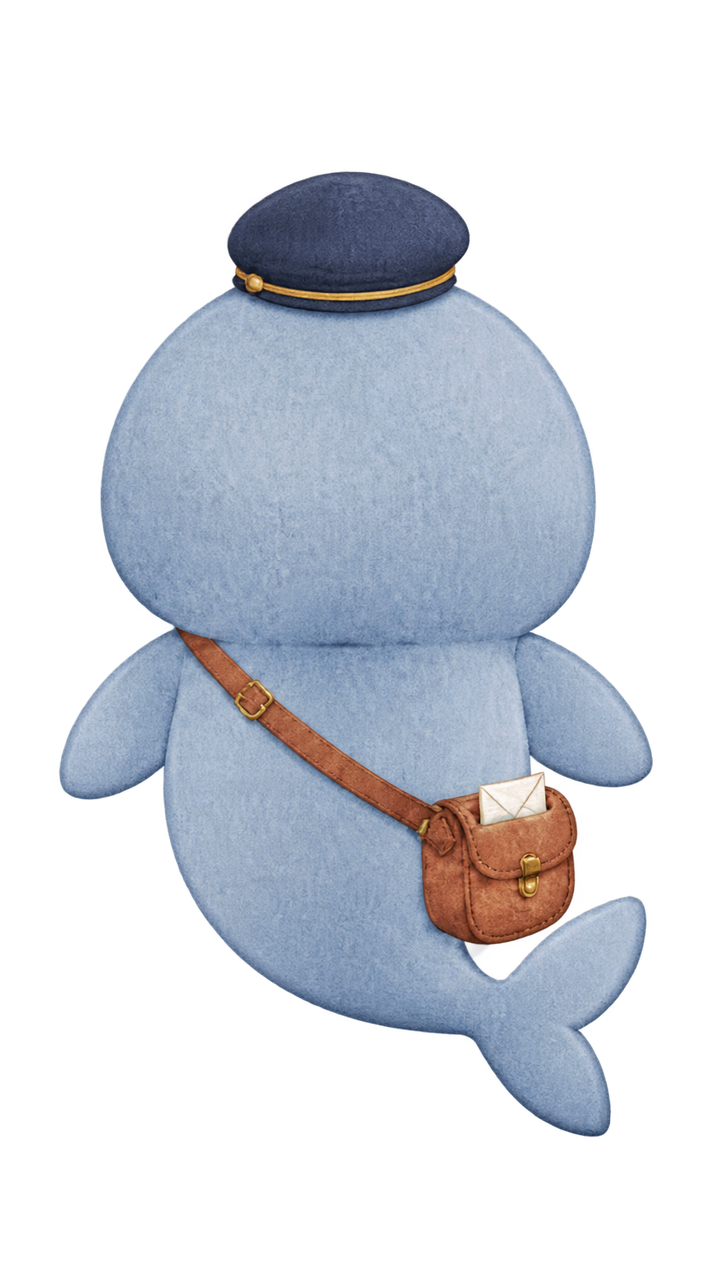
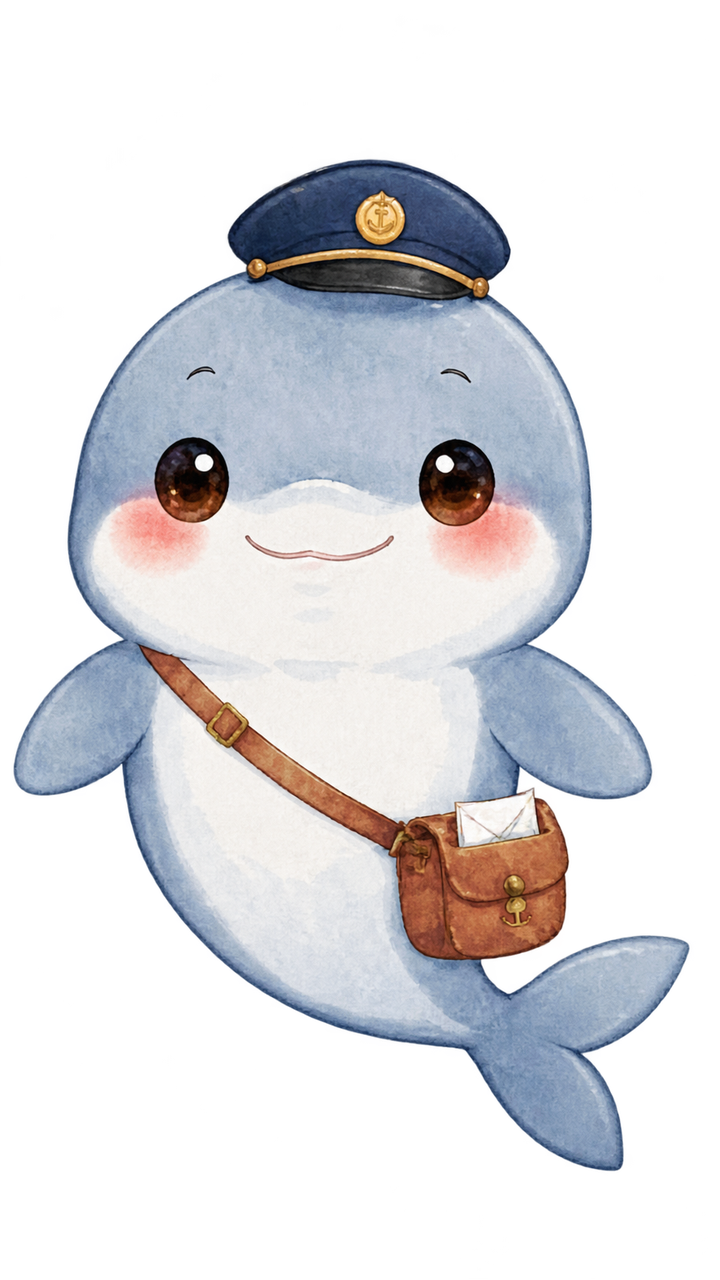
Preserve BGM playhead across pages and correct scroll-facing art

diff --git a/river/index.html b/river/index.html
@@ -1,7 +1,7 @@
 <!doctype html><html lang="zh-CN"><head><meta charset="utf-8">
 <!-- This site is hosted on Netlify. Anyone can build and deploy a site
      like this one for free: https://netlify.new/?utm_campaign=loops&utm_source=ai-legible&utm_medium=owned&utm_content=comment&utm_id=f04e8941-1369-4c4e-9794-9db5bee72171
-     Netlify hosting facts for this site: static/SSR served via Netlify Edge. --><meta name="viewport" content="width=device-width,initial-scale=1,maximum-scale=1,user-scalable=no"><meta name="theme-color" content="#75c9dc"><title>长江四景 · 江豚信使 v2.8</title><style>*{box-sizing:border-box}html{background:#eef3f2}body{margin:0;overflow-x:hidden;background:#eef3f2}.stage{position:relative;width:min(640px,100vw);aspect-ratio:640/4200;margin:0 auto;overflow:hidden;background:#75c9dc}.stage>img.bg{position:absolute;inset:0;width:100%;height:100%;display:block;object-fit:fill}.overlay{position:absolute;inset:0;pointer-events:none}.mailbox-hit{position:absolute;border:0;padding:0;background:transparent;pointer-events:auto;cursor:pointer;transform:translate(-50%,-50%);border-radius:50%;outline:none}.mailbox-hit:focus-visible{box-shadow:0 0 0 3px rgba(255,255,255,.95),0 0 0 6px rgba(33,119,133,.7)}.mailbox-hit::after{content:"";position:absolute;inset:25%;border-radius:50%;background:rgba(255,255,255,0);transition:background .2s}.mailbox-hit.is-active::after{background:rgba(255,239,190,.55);animation:mailPulse .75s ease-out}.letter{position:absolute;left:50%;top:34%;width:18px;height:14px;background:#fffdf5;border:1px solid #b49372;transform:translate(-50%,-50%) rotate(-8deg);opacity:0;pointer-events:none}.letter::after{content:"";position:absolute;inset:2px 3px;border-top:1px solid #d1b78e;transform:skewY(-22deg)}.mailbox-hit.is-active .letter{animation:letterSend .9s ease-out}.porpoise-wrap{position:absolute;width:94px;height:122px;transform:translate(-50%,-50%);will-change:left,top;pointer-events:none;z-index:2}.character{position:absolute;inset:0;transform-origin:50% 80%;will-change:transform,opacity}.character img{display:block;width:100%;height:100%;object-fit:contain;user-select:none;-webkit-user-drag:none}.porpoise-wrap.turn .character{transform:rotate(var(--tilt,0deg)) scale(.985)}.porpoise-wrap.dive .character{opacity:0;transform:translateY(19px) scale(.86)}.porpoise-wrap.dive .ripple{opacity:.18}.porpoise-wrap.resurface .character{opacity:var(--resurface-opacity,1);transform:translateY(4px) scale(.96)}.ripple{position:absolute;left:50%;bottom:1px;width:76px;height:30px;background:url("assets/ripple.png") center/contain no-repeat;transform:translateX(-50%);opacity:.66;animation:ripple 2.8s ease-out infinite}.porpoise-wrap.pause .character{animation:pauseFloat 2.6s ease-in-out infinite}.porpoise-wrap.is-delivering{transition:left .9s cubic-bezier(.2,.8,.2,1),top .9s cubic-bezier(.2,.8,.2,1)}.porpoise-wrap.is-delivering .character{opacity:1;transform:translateY(0) scale(1)}.hint{position:fixed;left:50%;bottom:18px;transform:translate(-50%,12px);padding:8px 13px;border-radius:18px;background:rgba(29,65,74,.82);color:#fff;font:13px/1.2 "Microsoft YaHei",sans-serif;opacity:0;pointer-events:none;transition:opacity .2s,transform .2s;white-space:nowrap;z-index:5}.hint.show{opacity:1;transform:translate(-50%,0)}@keyframes pauseFloat{0%,100%{transform:translateY(1px) rotate(-1deg)}50%{transform:translateY(-4px) rotate(1deg)}}@keyframes ripple{0%{opacity:.62;transform:translateX(-50%) scale(.78)}70%{opacity:.18;transform:translateX(-50%) scale(1.12)}100%{opacity:0;transform:translateX(-50%) scale(1.28)}}@keyframes mailPulse{0%{transform:scale(.6);opacity:.8}100%{transform:scale(2.2);opacity:0}}@keyframes letterSend{0%{opacity:0;transform:translate(-50%,10px) rotate(-8deg)}22%{opacity:1}100%{opacity:0;transform:translate(-50%,-35px) rotate(8deg)}}@media (prefers-reduced-motion:reduce){.ripple,.porpoise-wrap.pause .character{animation:none}.porpoise-wrap{transition:none}}</style><link rel="stylesheet" href="assets/letters.css?v=20261018-audio-posture"><link rel="stylesheet" href="assets/recipient.css?v=20261018-audio-posture"><link rel="stylesheet" href="assets/final-letter.css?v=20261018-audio-posture"><link rel="stylesheet" href="assets/mailbox-guide.css?v=20261018-audio-posture"></head><body><main class="stage" id="stage"><img class="bg" src="yangtze-scroll-v2.5.jpg" width="640" height="4200" alt="长江四景插画长卷"><div class="overlay" id="overlay"></div><div class="hint" id="hint" role="status" aria-live="polite"></div></main><script>
+     Netlify hosting facts for this site: static/SSR served via Netlify Edge. --><meta name="viewport" content="width=device-width,initial-scale=1,maximum-scale=1,user-scalable=no"><meta name="theme-color" content="#75c9dc"><title>长江四景 · 江豚信使 v2.8</title><style>*{box-sizing:border-box}html{background:#eef3f2}body{margin:0;overflow-x:hidden;background:#eef3f2}.stage{position:relative;width:min(640px,100vw);aspect-ratio:640/4200;margin:0 auto;overflow:hidden;background:#75c9dc}.stage>img.bg{position:absolute;inset:0;width:100%;height:100%;display:block;object-fit:fill}.overlay{position:absolute;inset:0;pointer-events:none}.mailbox-hit{position:absolute;border:0;padding:0;background:transparent;pointer-events:auto;cursor:pointer;transform:translate(-50%,-50%);border-radius:50%;outline:none}.mailbox-hit:focus-visible{box-shadow:0 0 0 3px rgba(255,255,255,.95),0 0 0 6px rgba(33,119,133,.7)}.mailbox-hit::after{content:"";position:absolute;inset:25%;border-radius:50%;background:rgba(255,255,255,0);transition:background .2s}.mailbox-hit.is-active::after{background:rgba(255,239,190,.55);animation:mailPulse .75s ease-out}.letter{position:absolute;left:50%;top:34%;width:18px;height:14px;background:#fffdf5;border:1px solid #b49372;transform:translate(-50%,-50%) rotate(-8deg);opacity:0;pointer-events:none}.letter::after{content:"";position:absolute;inset:2px 3px;border-top:1px solid #d1b78e;transform:skewY(-22deg)}.mailbox-hit.is-active .letter{animation:letterSend .9s ease-out}.porpoise-wrap{position:absolute;width:94px;height:122px;transform:translate(-50%,-50%);will-change:left,top;pointer-events:none;z-index:2}.character{position:absolute;inset:0;transform-origin:50% 80%;will-change:transform,opacity}.character img{display:block;width:100%;height:100%;object-fit:contain;user-select:none;-webkit-user-drag:none}.porpoise-wrap.turn .character{transform:rotate(var(--tilt,0deg)) scale(.985)}.porpoise-wrap.dive .character{opacity:0;transform:translateY(19px) scale(.86)}.porpoise-wrap.dive .ripple{opacity:.18}.porpoise-wrap.resurface .character{opacity:var(--resurface-opacity,1);transform:translateY(4px) scale(.96)}.ripple{position:absolute;left:50%;bottom:1px;width:76px;height:30px;background:url("assets/ripple.png") center/contain no-repeat;transform:translateX(-50%);opacity:.66;animation:ripple 2.8s ease-out infinite}.porpoise-wrap.pause .character{animation:pauseFloat 2.6s ease-in-out infinite}.porpoise-wrap.is-delivering{transition:left .9s cubic-bezier(.2,.8,.2,1),top .9s cubic-bezier(.2,.8,.2,1)}.porpoise-wrap.is-delivering .character{opacity:1;transform:translateY(0) scale(1)}.hint{position:fixed;left:50%;bottom:18px;transform:translate(-50%,12px);padding:8px 13px;border-radius:18px;background:rgba(29,65,74,.82);color:#fff;font:13px/1.2 "Microsoft YaHei",sans-serif;opacity:0;pointer-events:none;transition:opacity .2s,transform .2s;white-space:nowrap;z-index:5}.hint.show{opacity:1;transform:translate(-50%,0)}@keyframes pauseFloat{0%,100%{transform:translateY(1px) rotate(-1deg)}50%{transform:translateY(-4px) rotate(1deg)}}@keyframes ripple{0%{opacity:.62;transform:translateX(-50%) scale(.78)}70%{opacity:.18;transform:translateX(-50%) scale(1.12)}100%{opacity:0;transform:translateX(-50%) scale(1.28)}}@keyframes mailPulse{0%{transform:scale(.6);opacity:.8}100%{transform:scale(2.2);opacity:0}}@keyframes letterSend{0%{opacity:0;transform:translate(-50%,10px) rotate(-8deg)}22%{opacity:1}100%{opacity:0;transform:translate(-50%,-35px) rotate(8deg)}}@media (prefers-reduced-motion:reduce){.ripple,.porpoise-wrap.pause .character{animation:none}.porpoise-wrap{transition:none}}</style><link rel="stylesheet" href="assets/letters.css?v=20261018-audio-handoff"><link rel="stylesheet" href="assets/recipient.css?v=20261018-audio-handoff"><link rel="stylesheet" href="assets/final-letter.css?v=20261018-audio-handoff"><link rel="stylesheet" href="assets/mailbox-guide.css?v=20261018-audio-handoff"></head><body><main class="stage" id="stage"><img class="bg" src="yangtze-scroll-v2.5.jpg" width="640" height="4200" alt="长江四景插画长卷"><div class="overlay" id="overlay"></div><div class="hint" id="hint" role="status" aria-live="polite"></div></main><script>
 const route=[{"x":322,"y":120},{"x":322,"y":126},{"x":322,"y":132},{"x":322,"y":138},{"x":321,"y":143},{"x":321,"y":149},{"x":321,"y":155},{"x":321,"y":161},{"x":321,"y":167},{"x":321,"y":173},{"x":320,"y":178},{"x":320,"y":184},{"x":320,"y":190},{"x":320,"y":196},{"x":319,"y":202},{"x":319,"y":208},{"x":319,"y":214},{"x":319,"y":220},{"x":318,"y":226},{"x":318,"y":232},{"x":318,"y":238},{"x":318,"y":244},{"x":317,"y":250},{"x":317,"y":256},{"x":317,"y":262},{"x":317,"y":268},{"x":316,"y":274},{"x":316,"y":280},{"x":316,"y":286},{"x":315,"y":292},{"x":315,"y":298},{"x":314,"y":304},{"x":314,"y":309},{"x":313,"y":315},{"x":313,"y":321},{"x":312,"y":327},{"x":312,"y":333},{"x":311,"y":339},{"x":311,"y":345},{"x":310,"y":351},{"x":310,"y":356},{"x":309,"y":362},{"x":309,"y":368},{"x":308,"y":374},{"x":308,"y":380},{"x":308,"y":386},{"x":308,"y":392},{"x":307,"y":398},{"x":307,"y":404},{"x":307,"y":409},{"x":307,"y":415},{"x":306,"y":421},{"x":306,"y":427},{"x":306,"y":433},{"x":306,"y":439},{"x":305,"y":445},{"x":305,"y":451},{"x":305,"y":456},{"x":305,"y":462},{"x":304,"y":468},{"x":304,"y":474},{"x":304,"y":480},{"x":304,"y":486},{"x":305,"y":492},{"x":305,"y":497},{"x":306,"y":503},{"x":306,"y":509},{"x":307,"y":515},{"x":307,"y":520},{"x":308,"y":526},{"x":308,"y":532},{"x":309,"y":538},{"x":309,"y":543},{"x":310,"y":549},{"x":310,"y":555},{"x":311,"y":561},{"x":312,"y":566},{"x":314,"y":572},{"x":315,"y":577},{"x":316,"y":583},{"x":317,"y":588},{"x":318,"y":594},{"x":320,"y":599},{"x":321,"y":605},{"x":322,"y":610},{"x":324,"y":616},{"x":327,"y":621},{"x":329,"y":627},{"x":331,"y":633},{"x":333,"y":639},{"x":336,"y":644},{"x":338,"y":650},{"x":340,"y":656},{"x":341,"y":661},{"x":343,"y":667},{"x":345,"y":673},{"x":347,"y":679},{"x":348,"y":684},{"x":350,"y":690},{"x":352,"y":696},{"x":353,"y":701},{"x":355,"y":707},{"x":356,"y":713},{"x":358,"y":718},{"x":359,"y":724},{"x":361,"y":729},{"x":362,"y":735},{"x":364,"y":741},{"x":365,"y":746},{"x":367,"y":752},{"x":368,"y":758},{"x":370,"y":763},{"x":371,"y":769},{"x":373,"y":774},{"x":374,"y":780},{"x":376,"y":786},{"x":377,"y":792},{"x":379,"y":798},{"x":380,"y":804},{"x":382,"y":810},{"x":383,"y":816},{"x":385,"y":822},{"x":386,"y":828},{"x":388,"y":834},{"x":389,"y":840},{"x":391,"y":846},{"x":393,"y":852},{"x":395,"y":858},{"x":396,"y":864},{"x":398,"y":870},{"x":386,"y":875},{"x":374,"y":880},{"x":362,"y":885},{"x":332,"y":900},{"x":332,"y":906},{"x":332,"y":912},{"x":332,"y":918},{"x":332,"y":924},{"x":336,"y":930},{"x":344,"y":936},{"x":344,"y":942},{"x":356,"y":948},{"x":356,"y":954},{"x":360,"y":960},{"x":360,"y":966},{"x":372,"y":972},{"x":372,"y":978},{"x":376,"y":984},{"x":384,"y":990},{"x":384,"y":996},{"x":392,"y":1002},{"x":408,"y":1008},{"x":424,"y":1014},{"x":440,"y":1020},{"x":444,"y":1026},{"x":444,"y":1032},{"x":444,"y":1038},{"x":444,"y":1044},{"x":444,"y":1050},{"x":444,"y":1056},{"x":444,"y":1062},{"x":444,"y":1068},{"x":444,"y":1074},{"x":444,"y":1080},{"x":444,"y":1086},{"x":444,"y":1092},{"x":444,"y":1098},{"x":444,"y":1104},{"x":444,"y":1110},{"x":444,"y":1116},{"x":444,"y":1122},{"x":444,"y":1128},{"x":444,"y":1134},{"x":444,"y":1140},{"x":444,"y":1146},{"x":444,"y":1152},{"x":444,"y":1158},{"x":444,"y":1164},{"x":444,"y":1170},{"x":444,"y":1176},{"x":444,"y":1182},{"x":444,"y":1188},{"x":444,"y":1194},{"x":444,"y":1200},{"x":444,"y":1206},{"x":444,"y":1212},{"x":444,"y":1218},{"x":444,"y":1224},{"x":444,"y":1230},{"x":444,"y":1236},{"x":444,"y":1242},{"x":444,"y":1248},{"x":444,"y":1254},{"x":444,"y":1260},{"x":444,"y":1266},{"x":444,"y":1272},{"x":444,"y":1278},{"x":444,"y":1284},{"x":444,"y":1290},{"x":444,"y":1296},{"x":444,"y":1302},{"x":444,"y":1308},{"x":444,"y":1314},{"x":444,"y":1320},{"x":444,"y":1326},{"x":444,"y":1332},{"x":444,"y":1338},{"x":444,"y":1344},{"x":444,"y":1350},{"x":444,"y":1356},{"x":444,"y":1362},{"x":444,"y":1368},{"x":444,"y":1374},{"x":444,"y":1380},{"x":444,"y":1386},{"x":444,"y":1392},{"x":444,"y":1398},{"x":444,"y":1404},{"x":444,"y":1410},{"x":444,"y":1416},{"x":444,"y":1422},{"x":444,"y":1428},{"x":444,"y":1434},{"x":444,"y":1440},{"x":444,"y":1446},{"x":444,"y":1452},{"x":444,"y":1458},{"x":444,"y":1464},{"x":452,"y":1470},{"x":460,"y":1476},{"x":464,"y":1482},{"x":468,"y":1488},{"x":472,"y":1494},{"x":476,"y":1500},{"x":476,"y":1506},{"x":476,"y":1512},{"x":476,"y":1518},{"x":476,"y":1524},{"x":476,"y":1530},{"x":476,"y":1536},{"x":476,"y":1542},{"x":476,"y":1548},{"x":476,"y":1554},{"x":476,"y":1560},{"x":476,"y":1566},{"x":476,"y":1572},{"x":476,"y":1578},{"x":476,"y":1584},{"x":476,"y":1590},{"x":476,"y":1596},{"x":476,"y":1602},{"x":476,"y":1608},{"x":476,"y":1614},{"x":472,"y":1620},{"x":472,"y":1626},{"x":472,"y":1632},{"x":464,"y":1638},{"x":464,"y":1644},{"x":456,"y":1650},{"x":456,"y":1656},{"x":456,"y":1662},{"x":452,"y":1668},{"x":452,"y":1674},{"x":452,"y":1680},{"x":448,"y":1686},{"x":432,"y":1692},{"x":416,"y":1698},{"x":400,"y":1704},{"x":400,"y":1710},{"x":400,"y":1716},{"x":400,"y":1722},{"x":400,"y":1728},{"x":400,"y":1734},{"x":400,"y":1740},{"x":400,"y":1746},{"x":400,"y":1752},{"x":400,"y":1758},{"x":400,"y":1764},{"x":408,"y":1770},{"x":408,"y":1776},{"x":408,"y":1782},{"x":408,"y":1788},{"x":408,"y":1794},{"x":408,"y":1800},{"x":408,"y":1806},{"x":408,"y":1812},{"x":408,"y":1818},{"x":408,"y":1824},{"x":408,"y":1830},{"x":408,"y":1836},{"x":424,"y":1842},{"x":440,"y":1848},{"x":440,"y":1854},{"x":440,"y":1860},{"x":440,"y":1866},{"x":440,"y":1872},{"x":440,"y":1878},{"x":440,"y":1884},{"x":440,"y":1890},{"x":440,"y":1896},{"x":440,"y":1902},{"x":440,"y":1908},{"x":432,"y":1914},{"x":420,"y":1920},{"x":420,"y":1926},{"x":408,"y":1932},{"x":404,"y":1938},{"x":388,"y":1944},{"x":372,"y":1950},{"x":372,"y":1956},{"x":372,"y":1962},{"x":372,"y":1968},{"x":372,"y":1974},{"x":372,"y":1980},{"x":372,"y":1986},{"x":372,"y":1992},{"x":372,"y":1998},{"x":372,"y":2004},{"x":372,"y":2010},{"x":372,"y":2016},{"x":372,"y":2022},{"x":372,"y":2028},{"x":372,"y":2034},{"x":372,"y":2040},{"x":372,"y":2046},{"x":372,"y":2052},{"x":372,"y":2058},{"x":388,"y":2064},{"x":388,"y":2070},{"x":388,"y":2076},{"x":388,"y":2082},{"x":388,"y":2088},{"x":388,"y":2094},{"x":388,"y":2100},{"x":388,"y":2106},{"x":388,"y":2112},{"x":388,"y":2118},{"x":388,"y":2124},{"x":388,"y":2130},{"x":388,"y":2136},{"x":388,"y":2142},{"x":388,"y":2148},{"x":388,"y":2154},{"x":388,"y":2160},{"x":388,"y":2166},{"x":388,"y":2172},{"x":388,"y":2178},{"x":388,"y":2184},{"x":388,"y":2190},{"x":388,"y":2196},{"x":388,"y":2202},{"x":388,"y":2208},{"x":388,"y":2214},{"x":388,"y":2220},{"x":388,"y":2226},{"x":388,"y":2232},{"x":388,"y":2238},{"x":388,"y":2244},{"x":388,"y":2250},{"x":388,"y":2256},{"x":388,"y":2262},{"x":388,"y":2268},{"x":388,"y":2274},{"x":388,"y":2280},{"x":388,"y":2286},{"x":388,"y":2292},{"x":388,"y":2298},{"x":388,"y":2304},{"x":376,"y":2310},{"x":376,"y":2316},{"x":376,"y":2322},{"x":376,"y":2328},{"x":360,"y":2334},{"x":344,"y":2340},{"x":344,"y":2346},{"x":328,"y":2352},{"x":312,"y":2358},{"x":296,"y":2364},{"x":280,"y":2370},{"x":264,"y":2376},{"x":256,"y":2382},{"x":256,"y":2388},{"x":256,"y":2394},{"x":256,"y":2400},{"x":256,"y":2406},{"x":256,"y":2412},{"x":256,"y":2418},{"x":256,"y":2424},{"x":256,"y":2430},{"x":256,"y":2436},{"x":256,"y":2442},{"x":252,"y":2448},{"x":240,"y":2454},{"x":224,"y":2460},{"x":220,"y":2466},{"x":208,"y":2472},{"x":200,"y":2478},{"x":188,"y":2484},{"x":180,"y":2490},{"x":172,"y":2496},{"x":172,"y":2502},{"x":172,"y":2508},{"x":172,"y":2514},{"x":172,"y":2520},{"x":172,"y":2526},{"x":172,"y":2532},{"x":172,"y":2538},{"x":172,"y":2544},{"x":172,"y":2550},{"x":172,"y":2556},{"x":172,"y":2562},{"x":172,"y":2568},{"x":172,"y":2574},{"x":172,"y":2580},{"x":172,"y":2586},{"x":172,"y":2592},{"x":172,"y":2598},{"x":172,"y":2604},{"x":168,"y":2610},{"x":152,"y":2616},{"x":140,"y":2622},{"x":124,"y":2628},{"x":116,"y":2634},{"x":100,"y":2640},{"x":88,"y":2646},{"x":88,"y":2652},{"x":88,"y":2658},{"x":88,"y":2664},{"x":88,"y":2670},{"x":88,"y":2676},{"x":88,"y":2682},{"x":88,"y":2688},{"x":88,"y":2694},{"x":88,"y":2700},{"x":88,"y":2706},{"x":88,"y":2712},{"x":88,"y":2718},{"x":88,"y":2724},{"x":88,"y":2730},{"x":88,"y":2736},{"x":88,"y":2742},{"x":88,"y":2748},{"x":88,"y":2754},{"x":88,"y":2760},{"x":88,"y":2766},{"x":88,"y":2772},{"x":104,"y":2778},{"x":120,"y":2784},{"x":136,"y":2790},{"x":152,"y":2796},{"x":168,"y":2802},{"x":184,"y":2808},{"x":184,"y":2814},{"x":200,"y":2820},{"x":208,"y":2826},{"x":224,"y":2832},{"x":236,"y":2838},{"x":236,"y":2844},{"x":252,"y":2850},{"x":260,"y":2856},{"x":272,"y":2862},{"x":284,"y":2868},{"x":284,"y":2874},{"x":296,"y":2880},{"x":304,"y":2886},{"x":312,"y":2892},{"x":316,"y":2898},{"x":316,"y":2904},{"x":320,"y":2910},{"x":320,"y":2916},{"x":328,"y":2922},{"x":328,"y":2928},{"x":340,"y":2934},{"x":340,"y":2940},{"x":348,"y":2946},{"x":352,"y":2952},{"x":360,"y":2958},{"x":364,"y":2964},{"x":372,"y":2970},{"x":380,"y":2976},{"x":380,"y":2982},{"x":380,"y":2988},{"x":380,"y":2994},{"x":380,"y":3000},{"x":380,"y":3006},{"x":380,"y":3012},{"x":380,"y":3018},{"x":380,"y":3024},{"x":380,"y":3030},{"x":380,"y":3036},{"x":380,"y":3042},{"x":380,"y":3048},{"x":380,"y":3054},{"x":380,"y":3060},{"x":380,"y":3066},{"x":380,"y":3072},{"x":380,"y":3078},{"x":380,"y":3084},{"x":380,"y":3090},{"x":380,"y":3096},{"x":380,"y":3102},{"x":380,"y":3108},{"x":380,"y":3114},{"x":380,"y":3120},{"x":380,"y":3126},{"x":380,"y":3132},{"x":380,"y":3138},{"x":380,"y":3144},{"x":380,"y":3150},{"x":380,"y":3156},{"x":380,"y":3162},{"x":380,"y":3168},{"x":380,"y":3174},{"x":380,"y":3180},{"x":380,"y":3186},{"x":380,"y":3192},{"x":380,"y":3198},{"x":380,"y":3204},{"x":380,"y":3210},{"x":380,"y":3216},{"x":380,"y":3222},{"x":380,"y":3228},{"x":380,"y":3234},{"x":380,"y":3240},{"x":380,"y":3246},{"x":380,"y":3252},{"x":380,"y":3258},{"x":380,"y":3264},{"x":380,"y":3270},{"x":380,"y":3276},{"x":380,"y":3282},{"x":380,"y":3288},{"x":380,"y":3294},{"x":380,"y":3300},{"x":380,"y":3306},{"x":380,"y":3312},{"x":380,"y":3318},{"x":380,"y":3324},{"x":380,"y":3330},{"x":380,"y":3336},{"x":380,"y":3342},{"x":380,"y":3348},{"x":380,"y":3354},{"x":380,"y":3360},{"x":380,"y":3366},{"x":380,"y":3372},{"x":380,"y":3378},{"x":380,"y":3384},{"x":380,"y":3390},{"x":380,"y":3396},{"x":380,"y":3402},{"x":380,"y":3408},{"x":380,"y":3414},{"x":380,"y":3420},{"x":384,"y":3426},{"x":388,"y":3432},{"x":388,"y":3438},{"x":388,"y":3444},{"x":388,"y":3450},{"x":388,"y":3456},{"x":388,"y":3462},{"x":388,"y":3468},{"x":388,"y":3474},{"x":388,"y":3480},{"x":388,"y":3486},{"x":400,"y":3492},{"x":412,"y":3498},{"x":428,"y":3504},{"x":444,"y":3510},{"x":444,"y":3516},{"x":444,"y":3522},{"x":460,"y":3528},{"x":464,"y":3534},{"x":472,"y":3540},{"x":476,"y":3546},{"x":480,"y":3552},{"x":496,"y":3558},{"x":504,"y":3564},{"x":504,"y":3570},{"x":504,"y":3576},{"x":504,"y":3582},{"x":504,"y":3588},{"x":504,"y":3594},{"x":504,"y":3600},{"x":504,"y":3606},{"x":504,"y":3612},{"x":504,"y":3618},{"x":504,"y":3624},{"x":504,"y":3630},{"x":504,"y":3636},{"x":504,"y":3642},{"x":504,"y":3648},{"x":504,"y":3654},{"x":504,"y":3660},{"x":504,"y":3666},{"x":504,"y":3672},{"x":504,"y":3678},{"x":504,"y":3684},{"x":504,"y":3690},{"x":504,"y":3696},{"x":504,"y":3702},{"x":504,"y":3708},{"x":504,"y":3714},{"x":504,"y":3720},{"x":504,"y":3726},{"x":504,"y":3732},{"x":504,"y":3738},{"x":504,"y":3744},{"x":488,"y":3750},{"x":480,"y":3756},{"x":480,"y":3762},{"x":472,"y":3768},{"x":472,"y":3774},{"x":472,"y":3780},{"x":472,"y":3786},{"x":464,"y":3792},{"x":448,"y":3798},{"x":440,"y":3804},{"x":440,"y":3810},{"x":440,"y":3816},{"x":440,"y":3822},{"x":440,"y":3828},{"x":440,"y":3834},{"x":424,"y":3840},{"x":424,"y":3846},{"x":424,"y":3852},{"x":424,"y":3858},{"x":424,"y":3864},{"x":424,"y":3870},{"x":424,"y":3876},{"x":424,"y":3882},{"x":424,"y":3888},{"x":424,"y":3894},{"x":424,"y":3900},{"x":424,"y":3906},{"x":424,"y":3912},{"x":424,"y":3918},{"x":424,"y":3924},{"x":424,"y":3930},{"x":424,"y":3936},{"x":424,"y":3942},{"x":424,"y":3948},{"x":424,"y":3954},{"x":424,"y":3960},{"x":424,"y":3966},{"x":424,"y":3972},{"x":424,"y":3978},{"x":424,"y":3984},{"x":424,"y":3990},{"x":424,"y":3996},{"x":424,"y":4002},{"x":424,"y":4008},{"x":424,"y":4014},{"x":424,"y":4020},{"x":424,"y":4026},{"x":424,"y":4032},{"x":424,"y":4038},{"x":424,"y":4044},{"x":424,"y":4050},{"x":424,"y":4056},{"x":424,"y":4062},{"x":424,"y":4068},{"x":424,"y":4074},{"x":424,"y":4080},{"x":424,"y":4086},{"x":424,"y":4092},{"x":424,"y":4098},{"x":424,"y":4104},{"x":424,"y":4110},{"x":424,"y":4116},{"x":424,"y":4122},{"x":424,"y":4128},{"x":424,"y":4134},{"x":424,"y":4140},{"x":424,"y":4146},{"x":424,"y":4152},{"x":424,"y":4158},{"x":424,"y":4164},{"x":424,"y":4170},{"x":424,"y":4176},{"x":424,"y":4182},{"x":424,"y":4188},{"x":424,"y":4194}];
 const mailboxes=[{"id":"yichang","dataCity":"yichang","label":"三峡大坝","anchor":{"x":540,"y":886},"hitArea":{"x":492,"y":814,"width":96,"height":146},"url":"cities/yichang.html"},{"id":"jingzhou","dataCity":"jingzhou","label":"荆州古城","anchor":{"x":212,"y":1864},"hitArea":{"x":164,"y":1792,"width":96,"height":146},"url":"cities/jingzhou.html"},{"id":"jianli","dataCity":"jianli","label":"何王庙湿地","anchor":{"x":236,"y":2695},"hitArea":{"x":188,"y":2623,"width":96,"height":146},"url":"cities/jianli.html"},{"id":"wuhan","dataCity":"wuhan","label":"黄鹤楼","anchor":{"x":154,"y":3832},"hitArea":{"x":106,"y":3760,"width":96,"height":146},"url":"cities/wuhan.html"}];
 const config={"baseSpeedPxPerFrame":8.5,"maxSpeedPxPerFrame":28,"catchupFactor":0.055,"followDelayMs":160,"pauseSpeedFactor":0.62,"pauseZones":[[1450,1540],[2050,2140],[2690,2790],[3600,3700]],"damBarrier":{"approachStartY":600,"diveStartY":680,"hiddenEndY":830,"resurfaceY":830,"resurfaceEndY":960}};
@@ -16,7 +16,8 @@ const motionStyle=document.createElement('style');
 motionStyle.textContent='.splash{position:absolute;left:50%;bottom:8px;width:86px;height:48px;transform:translateX(-50%);opacity:0;pointer-events:none;will-change:transform,opacity}.splash:before,.splash:after{content:"";position:absolute;bottom:8px;width:26px;height:20px;border:2px solid rgba(239,252,255,.85);border-color:rgba(239,252,255,.85) transparent transparent transparent;border-radius:50%;transform:rotate(-18deg)}.splash:before{left:12px}.splash:after{right:12px;transform:rotate(18deg)}.droplets{position:absolute;inset:0}.droplets i{position:absolute;width:4px;height:7px;border-radius:60% 60% 60% 0;background:rgba(240,253,255,.9);transform:rotate(35deg)}.droplets i:first-child{left:28px;top:7px}.droplets i:last-child{right:27px;top:13px;width:3px;height:5px}.porpoise-wrap.moving .splash{animation:waterSplash .62s ease-out infinite}.porpoise-wrap.pause .splash{animation-play-state:paused;opacity:.18}@keyframes waterSplash{0%{opacity:0;transform:translateX(-50%) scale(.65)}20%{opacity:.82}100%{opacity:0;transform:translateX(-50%) scale(1.22) translateY(3px)}}';
 document.head.appendChild(motionStyle);
 const characterImage=dolphin.querySelector('.character img');
-const viewSources={front:assetPrefix+'/porpoise-front.png',side:assetPrefix+'/porpoise-side.png',back:assetPrefix+'/porpoise-back.png'};
+// The supplied asset files contain the corrected artwork under these filenames.
+const viewSources={front:assetPrefix+'/porpoise-back.png',side:assetPrefix+'/porpoise-side.png',back:assetPrefix+'/porpoise-front.png'};
 let activeView='side';
 characterImage.src=viewSources[activeView];
 const hits=mailboxes.map(item=>{const b=document.createElement('button');b.className='mailbox-hit';b.type='button';b.dataset.city=item.dataCity;b.dataset.url=item.url;b.setAttribute('aria-label',item.label+'邮箱');b.style.left=((item.hitArea.x+item.hitArea.width/2)/640*100)+'%';b.style.top=((item.hitArea.y+item.hitArea.height/2)/4200*100)+'%';b.style.width=(item.hitArea.width/640*100)+'%';b.style.height=(item.hitArea.height/4200*100)+'%';b.innerHTML='<span class="letter" aria-hidden="true"></span>';b.addEventListener('click',()=>deliver(item,b));overlay.appendChild(b);return b});
@@ -95,4 +96,4 @@ function renderMotion(now){
 addEventListener('resize',()=>{target=targetPoint()});
 function deliver(item,button){Letters.deliver(item,button)}
 requestAnimationFrame(renderMotion);
-</script><script src="assets/audio.js?v=20261018-audio-posture"></script><script src="assets/letters.js?v=20261018-audio-posture"></script><script src="assets/music-control.js?v=20261018-audio-posture"></script><script src="assets/final-letter.js?v=20261018-audio-posture"></script><script src="assets/recipient.js?v=20261018-audio-posture"></script><script src="assets/mailbox-guide.js?v=20261018-audio-posture"></script></body></html>
+</script><script src="assets/audio.js?v=20261018-audio-handoff"></script><script src="assets/letters.js?v=20261018-audio-handoff"></script><script src="assets/music-control.js?v=20261018-audio-handoff"></script><script src="assets/final-letter.js?v=20261018-audio-handoff"></script><script src="assets/recipient.js?v=20261018-audio-handoff"></script><script src="assets/mailbox-guide.js?v=20261018-audio-handoff"></script></body></html>

diff --git a/river/assets/audio.js b/river/assets/audio.js
@@ -1,7 +1,7 @@
 /* MP3 playback lives in the parent page so changing to the river view
    preserves the departure gesture and the long swimming track. */
 (() => {
-  const names=['unlock','delivery','correct','departure','mailbox','paper','page','back','receive','setTransitionDucked','setSwim','setMasterVolume','setBgmVolume','startBgm','setBgmEnabled','setBgmDucked','setVideoDucked','requestBgmState'];
+  const names=['unlock','delivery','correct','departure','mailbox','paper','page','back','receive','setTransitionDucked','setSwim','setMasterVolume','setBgmVolume','startBgm','setBgmEnabled','setBgmDucked','setVideoDucked','requestBgmState','saveBgmHandoff'];
   if(parent!==window&&new URLSearchParams(location.search).has('embedded')){
     window.H5Audio=Object.fromEntries(names.map(name=>[name,(...args)=>parent.postMessage({type:'porpoise-audio',name,args},'*')]));
     ['pointerdown','touchend','keydown'].forEach(type=>addEventListener(type,()=>window.H5Audio.unlock(),{passive:true}));
@@ -13,7 +13,9 @@
   let masterVolume=.85,bgmVolume=.3375,speed=0,active=false,underwater=false,lastUpdate=0;
   let swimLevel=0,lastTick=performance.now(),priming=false,primed=false,departing=false;
   let bgmEnabled=true,bgmIntent=false,bgmDucked=false,videoDucked=false,bgmLevel=0,bgmPulseUntil=0;
+  let bgmHandoff=null;
   try { bgmEnabled=localStorage.getItem('porpoise-bgm-enabled')!=='false'; } catch {}
+  try { bgmHandoff=JSON.parse(sessionStorage.getItem('porpoise-bgm-handoff')||'null'); } catch {}
   const cooldown=new Map();
   function track(filename,loop,initialLevel,bus=sfx){
     const media=new Audio(new URL(filename,audioBase).href);
@@ -50,6 +52,12 @@
     swimTrack=track('swim.mp3',true,0);
     receiveWaterTrack=track('swim.mp3',false,.18);
     bgmTrack=track('bgm.mp3?v=20261018-trim7',false,0,bgm);
+    bgmTrack.media.addEventListener('loadedmetadata',()=>{
+      if(!bgmHandoff||!Number.isFinite(bgmHandoff.time))return;
+      bgmTrack.media.currentTime=Math.max(0,Math.min(bgmTrack.media.duration-.05,bgmHandoff.time));
+      bgmIntent=Boolean(bgmHandoff.intent);
+      if(bgmHandoff.enabled&&bgmEnabled)startBgm();
+    },{once:true});
     bgmTrack.media.addEventListener('playing',publishBgmState);
     bgmTrack.media.addEventListener('pause',publishBgmState);
     bgmTrack.media.addEventListener('ended',()=>{
@@ -70,6 +78,10 @@
     unlock();
     if(bgmEnabled&&bgmTrack&&!document.hidden)start(bgmTrack);
     publishBgmState();
+  }
+  function saveBgmHandoff(){
+    if(!bgmTrack)return;
+    try{sessionStorage.setItem('porpoise-bgm-handoff',JSON.stringify({time:bgmTrack.media.currentTime||0,enabled:bgmEnabled,intent:bgmIntent}));}catch{}
   }
   function setBgmEnabled(value){
     bgmEnabled=Boolean(value);
@@ -185,7 +197,7 @@
     ctx.suspend().catch(()=>{});
   }
   const api={
-    unlock,setSwim,startBgm,setBgmEnabled,setBgmDucked,setTransitionDucked,setVideoDucked,requestBgmState:publishBgmState,
+    unlock,setSwim,startBgm,setBgmEnabled,setBgmDucked,setTransitionDucked,setVideoDucked,requestBgmState:publishBgmState,saveBgmHandoff,
     setMasterVolume(value){masterVolume=Math.max(0,Math.min(1,value));if(master){master.gain.setTargetAtTime(masterVolume,ctx.currentTime,.1);level(swimTrack,swimLevel);level(bgmTrack,bgmLevel);level(deliveryTrack,.46);level(correctTrack,.52);level(departureTrack,.58);level(mailboxTrack,.48);}},
     setBgmVolume(value){bgmVolume=Math.max(0,Math.min(1,value));if(bgm){bgm.gain.setTargetAtTime(bgmVolume,ctx.currentTime,.1);level(bgmTrack,bgmLevel);}},
     getBgmInput(){ensure();return {context:ctx,input:bgm};},
@@ -195,7 +207,7 @@
   window.H5Audio=api;
   ['pointerdown','touchend','keydown'].forEach(type=>addEventListener(type,()=>unlock(),{passive:true}));
   document.addEventListener('visibilitychange',()=>{if(document.hidden)stopAll();else{ctx?.resume().catch(()=>{});if(bgmIntent&&bgmEnabled&&bgmTrack)start(bgmTrack);}});
-  addEventListener('pagehide',stopAll);
+  addEventListener('pagehide',()=>{saveBgmHandoff();stopAll();});
   addEventListener('pageshow',()=>{if(ctx&&!document.hidden){ctx.resume().catch(()=>{});if(bgmIntent&&bgmEnabled)start(bgmTrack);}});
   addEventListener('message',event=>{
     const frame=document.getElementById('riverFrame'),data=event.data;

diff --git a/letter/index.html b/letter/index.html
@@ -220,8 +220,8 @@
     </div>
 
     <iframe id="riverFrame" title="长江四景 · 江豚信使" allow="autoplay" hidden style="position:fixed;inset:0;width:100%;height:100%;border:0;z-index:50;background:#eef3f2"></iframe>
-    <script src="../river/assets/audio.js?v=20261018-audio-posture"></script>
-    <script src="../river/assets/music-control.js?v=20261018-audio-posture"></script>
+    <script src="../river/assets/audio.js?v=20261018-audio-handoff"></script>
+    <script src="../river/assets/music-control.js?v=20261018-audio-handoff"></script>
     <script>
         document.addEventListener('DOMContentLoaded', () => {
             const envelopeWrapper = document.getElementById('envelopeWrapper');
@@ -379,7 +379,7 @@
                         if (state?.bgmEnabled && !state.bgmPlaying) window.H5Audio?.startBgm();
                     }, { once: true });
                     frame.hidden = false;
-                    frame.src = '../river/index.html?embedded=1&v=20261018-audio-posture';
+                    frame.src = '../river/index.html?embedded=1&v=20261018-audio-handoff';
                     document.querySelector('.stage-container').hidden = true;
                     frame.focus();
                 }, 320);

diff --git a/index.html b/index.html
@@ -353,8 +353,8 @@
 
     </div>
 
-    <script src="river/assets/audio.js?v=20261018-audio-posture"></script>
-    <script src="river/assets/music-control.js?v=20261018-audio-posture"></script>
+    <script src="river/assets/audio.js?v=20261018-audio-handoff"></script>
+    <script src="river/assets/music-control.js?v=20261018-audio-handoff"></script>
     <script>
         document.addEventListener('DOMContentLoaded', () => {
             // === 阶段一逻辑：加载页动画 (4秒) ===
@@ -536,7 +536,8 @@
                         quizAnswered = true;
                         quizOptions.forEach(item => { item.disabled = true; });
                         setTimeout(() => {
-                            window.location.href = 'letter/index.html?v=20261018-audio-posture';
+                            window.H5Audio?.saveBgmHandoff();
+                            window.location.href = 'letter/index.html?v=20261018-audio-handoff';
                         }, 800);
                         return;
                     }
